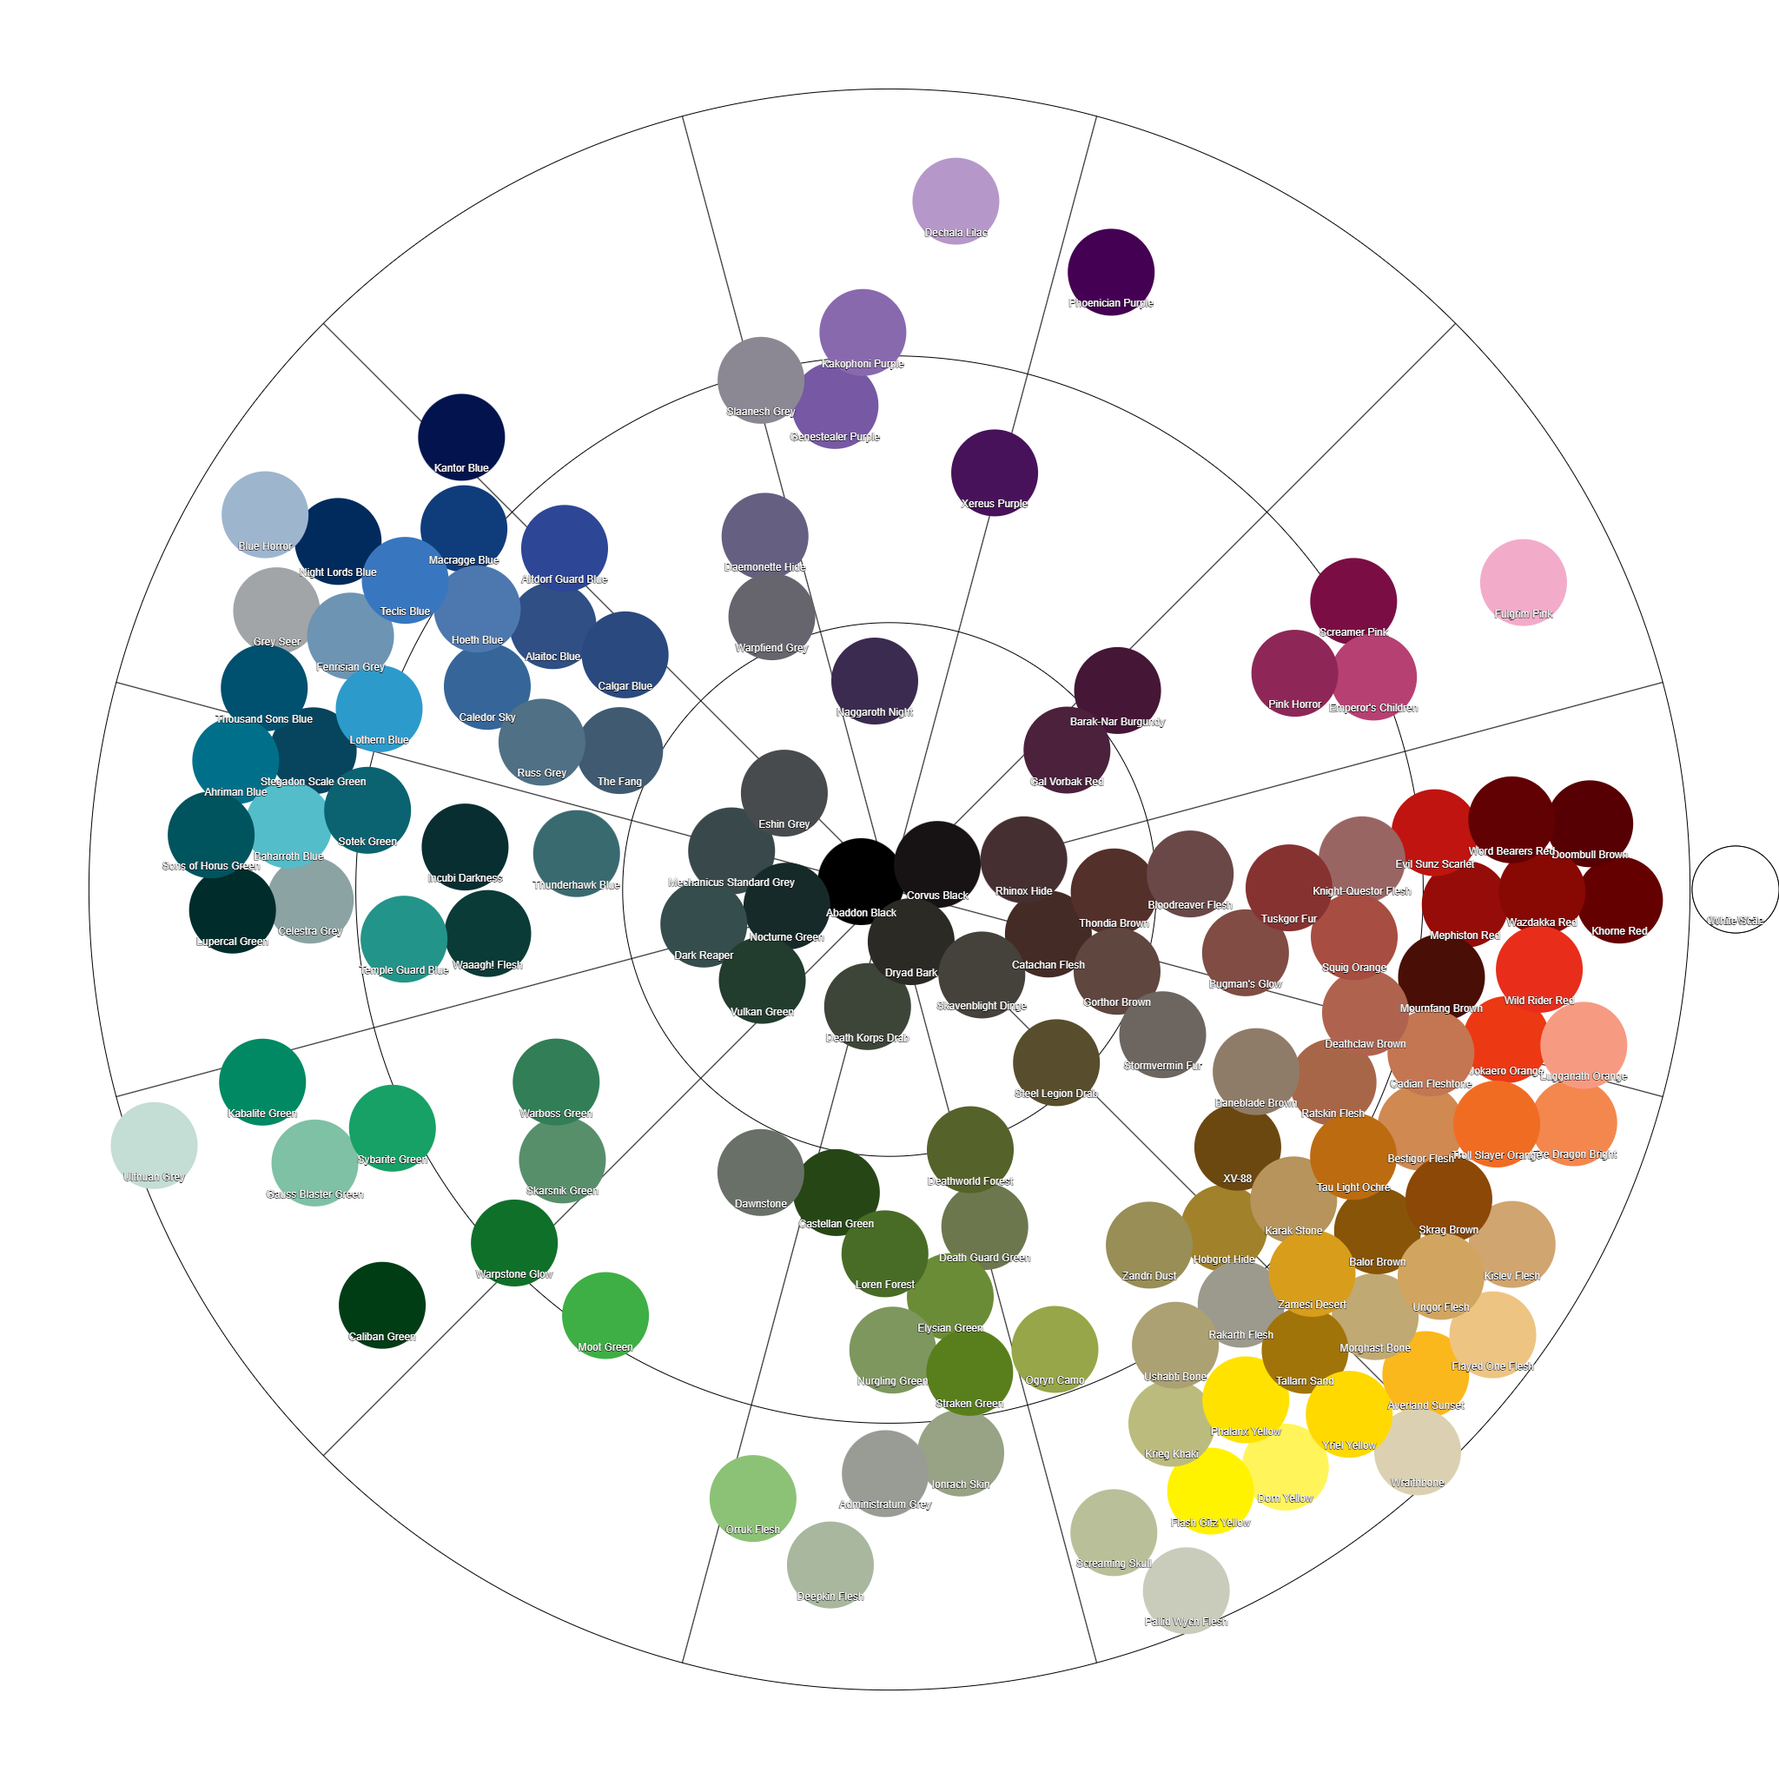
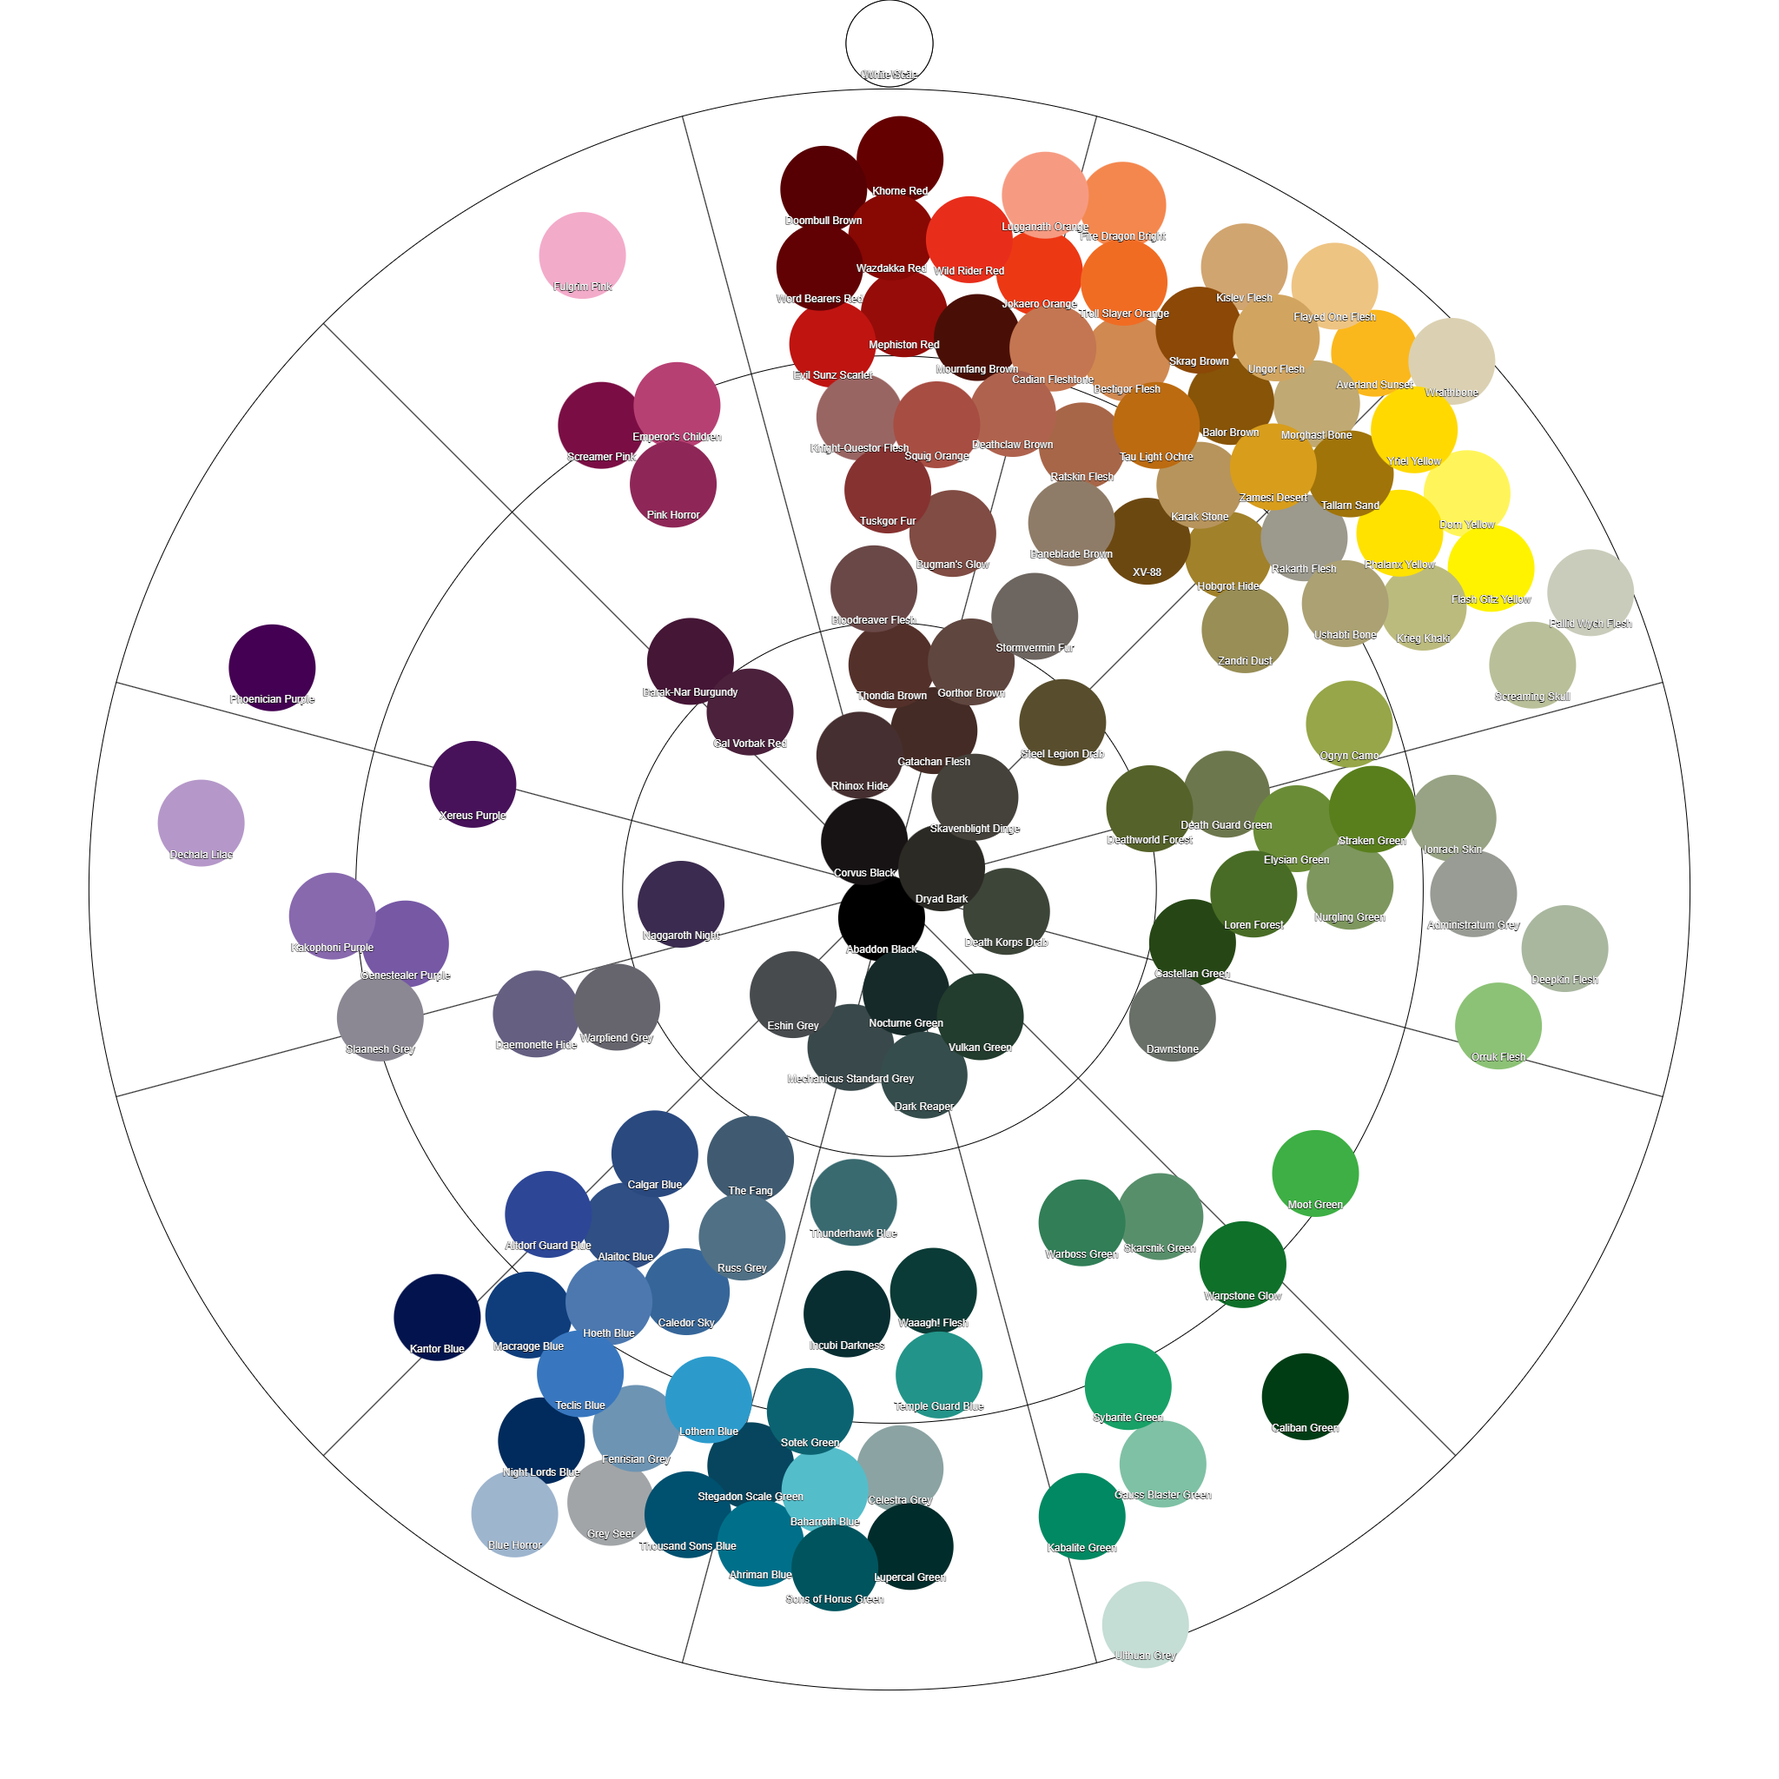
updated wheels

diff --git a/output/graph.html b/output/graph.html
@@ -7,8 +7,8 @@
   var ctx = canvas.getContext("2d");
 
   // BACKGROUND
-  //ctx.fillStyle = '#efefef';
-  //ctx.fillRect(0, 0, canvas.width, canvas.height);
+  ctx.fillStyle = '#fff'; //'#efefef';
+  ctx.fillRect(0, 0, canvas.width, canvas.height);
 
 
   // Function to draw a circle and a label at a specific (x, y) position
@@ -74,134 +74,134 @@
   // Example circles at different coordinates and colors
 
 let circles = [
-    ["#141314", 1106.38, 940.25, "Abaddon Black"],
-    ["#888c8f", 512.93, 794.26, "Administratum Grey"],
-    ["#00647c", 198.68, 907.70, "Ahriman Blue"],
-    ["#17466f", 580.49, 735.29, "Alaitoc Blue"],
-    ["#233d7d", 639.67, 667.77, "Altdorf Guard Blue"],
-    ["#c58336", 1557.42, 1466.02, "Averland Sunset"],
-    ["#33b4cf", 410.17, 911.97, "Baharroth Blue"],
-    ["#966326", 1448.93, 1384.49, "Balor Brown"],
-    ["#736153", 1332.29, 1214.88, "Baneblade Brown"],
-    ["#361f29", 1180.18, 891.17, "Barak-Nar Burgundy"],
-    ["#d4793f", 1676.96, 1290.37, "Bestigor Flesh"],
-    ["#4f2f2b", 1264.50, 980.42, "Bloodreaver Flesh"],
-    ["#90b4d2", 311.08, 657.91, "Blue Horror"],
-    ["#855751", 1431.26, 1067.74, "Bugman's Glow"],
-    ["#a86c5a", 1621.41, 1118.92, "Cadian Fleshtone"],
-    ["#0a4c94", 439.80, 632.82, "Caledor Sky"],
-    ["#4e6fc0", 545.08, 583.13, "Calgar Blue"],
-    ["#182e28", 859.26, 1093.63, "Caliban Green"],
-    ["#313324", 1042.70, 1176.57, "Castellan Green"],
-    ["#382621", 1175.61, 1069.33, "Catachan Flesh"],
-    ["#92a0a2", 352.41, 982.13, "Celestra Grey"],
-    ["#b6bbc0", 273.55, 576.21, "Corax White"],
-    ["#191c20", 1012.90, 998.26, "Corvus Black"],
-    ["#4b435c", 944.04, 720.03, "Daemonette Hide"],
-    ["#2a3740", 898.01, 1008.02, "Dark Reaper"],
-    ["#595f68", 745.07, 799.57, "Dawnstone"],
-    ["#646447", 1181.71, 1283.44, "Death Guard Green"],
-    ["#292924", 1031.28, 1086.80, "Death Korps Drab"],
-    ["#9f5435", 1547.70, 1155.45, "Deathclaw Brown"],
-    ["#4d492e", 1120.14, 1219.58, "Deathworld Forest"],
-    ["#ac97d8", 875.19, 230.00, "Dechala Lilac"],
-    ["#b6baab", 1221.61, 1816.57, "Deepkin Flesh"],
-    ["#461b15", 1383.30, 997.21, "Doombull Brown"],
-    ["#f1d985", 1588.68, 1633.75, "Dorn Yellow"],
-    ["#332827", 1097.51, 1028.53, "Dryad Bark"],
-    ["#6a6932", 1228.68, 1358.90, "Elysian Green"],
-    ["#e2639b", 1694.62, 690.27, "Emperor's Children"],
-    ["#2e3034", 945.05, 933.82, "Eshin Grey"],
-    ["#b52a2d", 1673.67, 987.50, "Evil Sunz Scarlet"],
-    ["#5d7b94", 582.50, 850.39, "Fenrisian Grey"],
-    ["#f36c2b", 1749.02, 1235.02, "Fire Dragon Bright"],
-    ["#f4b809", 1495.46, 1528.89, "Flash Gitz Yellow"],
-    ["#cfb697", 1735.72, 1468.94, "Flayed One Flesh"],
-    ["#f2ade2", 1590.28, 435.82, "Fulgrim Pink"],
-    ["#441c22", 1330.81, 927.03, "Gal Vorbak Red"],
-    ["#7fd4bb", 294.08, 1256.20, "Gauss Blaster Green"],
-    ["#744f94", 1043.02, 522.99, "Genestealer Purple"],
-    ["#593d36", 1259.39, 1065.35, "Gorthor Brown"],
-    ["#9ca0a1", 341.69, 846.08, "Grey Seer"],
-    ["#977848", 1360.52, 1377.18, "Hobgrot Hide"],
-    ["#0d62a0", 463.74, 719.39, "Hoeth Blue"],
-    ["#13252b", 810.81, 1019.16, "Incubi Darkness"],
-    ["#9f9d82", 1339.01, 1532.67, "Ionrach Skin"],
-    ["#ba613f", 1674.25, 1189.38, "Jokaero Orange"],
-    ["#034c44", 333.16, 1103.63, "Kabalite Green"],
-    ["#966a9f", 1220.34, 478.99, "Kakophoni Purple"],
-    ["#142134", 802.62, 862.33, "Kantor Blue"],
-    ["#937e69", 1410.38, 1303.85, "Karak Stone"],
-    ["#602025", 1430.07, 920.76, "Khorne Red"],
-    ["#c6906d", 1772.26, 1320.22, "Kislev Flesh"],
-    ["#6f4942", 1345.82, 1079.11, "Knight-Questor Flesh"],
-    ["#ada879", 1418.58, 1574.42, "Krieg Khaki"],
-    ["#414b33", 1017.20, 1261.31, "Loren Forest"],
-    ["#3394c3", 426.58, 817.67, "Lothern Blue"],
-    ["#f69069", 1835.40, 1212.60, "Lugganath Orange"],
-    ["#132f32", 756.42, 1089.55, "Lupercal Green"],
-    ["#1c3167", 713.46, 717.39, "Macragge Blue"],
-    ["#404951", 856.43, 932.10, "Mechanicus Standard Grey"],
-    ["#912724", 1597.23, 1033.13, "Mephiston Red"],
-    ["#5d9a32", 961.63, 1574.15, "Moot Green"],
-    ["#ba9f81", 1624.60, 1391.05, "Morghast Bone"],
-    ["#523322", 1285.97, 1145.61, "Mournfang Brown"],
-    ["#221c34", 973.55, 844.42, "Naggaroth Night"],
-    ["#111a28", 887.93, 848.49, "Night Lords Blue"],
-    ["#1c2121", 946.26, 1078.13, "Nocturne Green"],
-    ["#82885a", 1222.17, 1448.20, "Nurgling Green"],
-    ["#9d8f57", 1390.85, 1459.73, "Ogryn Camo"],
-    ["#7b874e", 1132.35, 1453.26, "Orruk Flesh"],
-    ["#d2c4bd", 1860.91, 1326.50, "Pallid Wych Flesh"],
-    ["#f6d026", 1498.59, 1618.50, "Phalanx Yellow"],
-    ["#302546", 1019.29, 769.22, "Phoenician Purple"],
-    ["#b74855", 1637.42, 905.53, "Pink Horror"],
-    ["#917f76", 1501.55, 1226.10, "Rakarth Flesh"],
-    ["#af5c3c", 1594.93, 1226.42, "Ratskin Flesh"],
-    ["#211413", 1178.33, 982.53, "Rhinox Hide"],
-    ["#4d657f", 656.47, 800.34, "Russ Grey"],
-    ["#5c1e33", 1374.25, 850.66, "Screamer Pink"],
-    ["#d1be9f", 1678.06, 1558.73, "Screaming Skull"],
-    ["#749357", 1028.71, 1514.15, "Skarsnik Green"],
-    ["#373739", 1029.15, 909.99, "Skavenblight Dinge"],
-    ["#884126", 1462.57, 1145.91, "Skrag Brown"],
-    ["#887e99", 942.73, 429.00, "Slaanesh Grey"],
-    ["#325256", 707.43, 1009.17, "Sons of Horus Green"],
-    ["#00556b", 252.46, 835.80, "Sotek Green"],
-    ["#b2544a", 1694.45, 1074.65, "Squig Orange"],
-    ["#675241", 1246.78, 1225.57, "Steel Legion Drab"],
-    ["#192d38", 767.28, 942.87, "Stegadon Scale Green"],
-    ["#555450", 1190.54, 1157.90, "Stormvermin Fur"],
-    ["#656a48", 1111.46, 1337.66, "Straken Green"],
-    ["#258d6e", 514.54, 1188.40, "Sybarite Green"],
-    ["#836b4c", 1319.46, 1300.03, "Tallarn Sand"],
-    ["#c57d49", 1588.78, 1312.09, "Tau Light Ochre"],
-    ["#0c72b6", 374.10, 721.98, "Teclis Blue"],
-    ["#0295b6", 288.67, 918.61, "Temple Guard Blue"],
-    ["#303d57", 840.56, 772.63, "The Fang"],
-    ["#31241f", 1109.75, 1123.31, "Thondia Brown"],
-    ["#014c72", 290.40, 754.41, "Thousand Sons Blue"],
-    ["#2f4b59", 697.69, 886.95, "Thunderhawk Blue"],
-    ["#e6491b", 1751.60, 1144.73, "Troll Slayer Orange"],
-    ["#8d4338", 1518.68, 1073.94, "Tuskgor Fur"],
-    ["#c1c9cb", 146.15, 832.87, "Ulthuan Grey"],
-    ["#dd9552", 1711.63, 1383.62, "Ungor Flesh"],
-    ["#bfa781", 1646.36, 1475.73, "Ushabti Bone"],
-    ["#232f26", 956.37, 1165.62, "Vulkan Green"],
-    ["#31473a", 869.45, 1182.64, "Waaagh! Flesh"],
-    ["#476b43", 893.43, 1317.27, "Warboss Green"],
-    ["#645d73", 951.59, 630.39, "Warpfiend Grey"],
-    ["#075e2e", 477.73, 1380.16, "Warpstone Glow"],
-    ["#a1343b", 1559.48, 951.93, "Wazdakka Red"],
-    ["#ebeef0", 147.28, 633.66, "White Scar"],
-    ["#e03f39", 1772.22, 1033.87, "Wild Rider Red"],
-    ["#672220", 1480.51, 993.90, "Word Bearers Red"],
-    ["#c9beae", 1767.40, 1552.57, "Wraithbone"],
-    ["#3a2746", 1083.34, 833.10, "Xereus Purple"],
-    ["#745438", 1415.15, 1216.96, "XV-88"],
-    ["#f3a014", 1589.64, 1545.45, "Yriel Yellow"],
-    ["#b08047", 1537.34, 1384.64, "Zamesi Desert"],
-    ["#9a7d60", 1498.28, 1309.85, "Zandri Dust"],
+    ["#141314", 940.25, 941.62, "Abaddon Black"],
+    ["#888c8f", 794.26, 1535.07, "Administratum Grey"],
+    ["#00647c", 907.70, 1849.32, "Ahriman Blue"],
+    ["#17466f", 735.29, 1467.51, "Alaitoc Blue"],
+    ["#233d7d", 667.77, 1408.33, "Altdorf Guard Blue"],
+    ["#c58336", 1466.02, 490.58, "Averland Sunset"],
+    ["#33b4cf", 911.97, 1637.83, "Baharroth Blue"],
+    ["#966326", 1384.49, 599.07, "Balor Brown"],
+    ["#736153", 1214.88, 715.71, "Baneblade Brown"],
+    ["#361f29", 891.17, 867.82, "Barak-Nar Burgundy"],
+    ["#d4793f", 1290.37, 371.04, "Bestigor Flesh"],
+    ["#4f2f2b", 980.42, 783.50, "Bloodreaver Flesh"],
+    ["#90b4d2", 657.91, 1736.92, "Blue Horror"],
+    ["#855751", 1067.74, 616.74, "Bugman's Glow"],
+    ["#a86c5a", 1118.92, 426.59, "Cadian Fleshtone"],
+    ["#0a4c94", 632.82, 1608.20, "Caledor Sky"],
+    ["#4e6fc0", 583.13, 1502.92, "Calgar Blue"],
+    ["#182e28", 1093.63, 1188.74, "Caliban Green"],
+    ["#313324", 1176.57, 1005.30, "Castellan Green"],
+    ["#382621", 1069.33, 872.39, "Catachan Flesh"],
+    ["#92a0a2", 982.13, 1695.59, "Celestra Grey"],
+    ["#b6bbc0", 576.21, 1774.45, "Corax White"],
+    ["#191c20", 998.26, 1035.10, "Corvus Black"],
+    ["#4b435c", 720.03, 1103.96, "Daemonette Hide"],
+    ["#2a3740", 1008.02, 1149.99, "Dark Reaper"],
+    ["#595f68", 799.57, 1302.93, "Dawnstone"],
+    ["#646447", 1283.44, 866.29, "Death Guard Green"],
+    ["#292924", 1086.80, 1016.72, "Death Korps Drab"],
+    ["#9f5435", 1155.45, 500.30, "Deathclaw Brown"],
+    ["#4d492e", 1219.58, 927.86, "Deathworld Forest"],
+    ["#ac97d8", 230.00, 1172.81, "Dechala Lilac"],
+    ["#b6baab", 1816.57, 826.39, "Deepkin Flesh"],
+    ["#461b15", 997.21, 664.70, "Doombull Brown"],
+    ["#f1d985", 1633.75, 459.32, "Dorn Yellow"],
+    ["#332827", 1028.53, 950.49, "Dryad Bark"],
+    ["#6a6932", 1358.90, 819.32, "Elysian Green"],
+    ["#e2639b", 690.27, 353.38, "Emperor's Children"],
+    ["#2e3034", 933.82, 1102.95, "Eshin Grey"],
+    ["#b52a2d", 987.50, 374.33, "Evil Sunz Scarlet"],
+    ["#5d7b94", 850.39, 1465.50, "Fenrisian Grey"],
+    ["#f36c2b", 1235.02, 298.98, "Fire Dragon Bright"],
+    ["#f4b809", 1528.89, 552.54, "Flash Gitz Yellow"],
+    ["#cfb697", 1468.94, 312.28, "Flayed One Flesh"],
+    ["#f2ade2", 435.82, 457.72, "Fulgrim Pink"],
+    ["#441c22", 927.03, 717.19, "Gal Vorbak Red"],
+    ["#7fd4bb", 1256.20, 1753.92, "Gauss Blaster Green"],
+    ["#744f94", 522.99, 1004.98, "Genestealer Purple"],
+    ["#593d36", 1065.35, 788.61, "Gorthor Brown"],
+    ["#9ca0a1", 846.08, 1706.31, "Grey Seer"],
+    ["#977848", 1377.18, 687.48, "Hobgrot Hide"],
+    ["#0d62a0", 719.39, 1584.26, "Hoeth Blue"],
+    ["#13252b", 1019.16, 1237.19, "Incubi Darkness"],
+    ["#9f9d82", 1532.67, 708.99, "Ionrach Skin"],
+    ["#ba613f", 1189.38, 373.75, "Jokaero Orange"],
+    ["#034c44", 1103.63, 1714.84, "Kabalite Green"],
+    ["#966a9f", 478.99, 827.66, "Kakophoni Purple"],
+    ["#142134", 862.33, 1245.38, "Kantor Blue"],
+    ["#937e69", 1303.85, 637.62, "Karak Stone"],
+    ["#602025", 920.76, 617.93, "Khorne Red"],
+    ["#c6906d", 1320.22, 275.74, "Kislev Flesh"],
+    ["#6f4942", 1079.11, 702.18, "Knight-Questor Flesh"],
+    ["#ada879", 1574.42, 629.42, "Krieg Khaki"],
+    ["#414b33", 1261.31, 1030.80, "Loren Forest"],
+    ["#3394c3", 817.67, 1621.42, "Lothern Blue"],
+    ["#f69069", 1212.60, 212.60, "Lugganath Orange"],
+    ["#132f32", 1089.55, 1291.58, "Lupercal Green"],
+    ["#1c3167", 717.39, 1334.54, "Macragge Blue"],
+    ["#404951", 932.10, 1191.57, "Mechanicus Standard Grey"],
+    ["#912724", 1033.13, 450.77, "Mephiston Red"],
+    ["#5d9a32", 1574.15, 1086.37, "Moot Green"],
+    ["#ba9f81", 1391.05, 423.40, "Morghast Bone"],
+    ["#523322", 1145.61, 762.03, "Mournfang Brown"],
+    ["#221c34", 844.42, 1074.45, "Naggaroth Night"],
+    ["#111a28", 848.49, 1160.07, "Night Lords Blue"],
+    ["#1c2121", 1078.13, 1101.74, "Nocturne Green"],
+    ["#82885a", 1448.20, 825.83, "Nurgling Green"],
+    ["#9d8f57", 1459.73, 657.15, "Ogryn Camo"],
+    ["#7b874e", 1453.26, 915.65, "Orruk Flesh"],
+    ["#d2c4bd", 1326.50, 187.09, "Pallid Wych Flesh"],
+    ["#f6d026", 1618.50, 549.41, "Phalanx Yellow"],
+    ["#302546", 769.22, 1028.71, "Phoenician Purple"],
+    ["#b74855", 905.53, 410.58, "Pink Horror"],
+    ["#917f76", 1226.10, 546.45, "Rakarth Flesh"],
+    ["#af5c3c", 1226.42, 453.07, "Ratskin Flesh"],
+    ["#211413", 982.53, 869.67, "Rhinox Hide"],
+    ["#4d657f", 800.34, 1391.53, "Russ Grey"],
+    ["#5c1e33", 850.66, 673.75, "Screamer Pink"],
+    ["#d1be9f", 1558.73, 369.94, "Screaming Skull"],
+    ["#749357", 1514.15, 1019.29, "Skarsnik Green"],
+    ["#373739", 909.99, 1018.85, "Skavenblight Dinge"],
+    ["#884126", 1145.91, 585.43, "Skrag Brown"],
+    ["#887e99", 429.00, 1105.27, "Slaanesh Grey"],
+    ["#325256", 1009.17, 1340.57, "Sons of Horus Green"],
+    ["#00556b", 835.80, 1795.54, "Sotek Green"],
+    ["#b2544a", 1074.65, 353.55, "Squig Orange"],
+    ["#675241", 1225.57, 801.22, "Steel Legion Drab"],
+    ["#192d38", 942.87, 1280.72, "Stegadon Scale Green"],
+    ["#555450", 1157.90, 857.46, "Stormvermin Fur"],
+    ["#656a48", 1337.66, 936.54, "Straken Green"],
+    ["#258d6e", 1188.40, 1533.46, "Sybarite Green"],
+    ["#836b4c", 1300.03, 728.54, "Tallarn Sand"],
+    ["#c57d49", 1312.09, 459.22, "Tau Light Ochre"],
+    ["#0c72b6", 721.98, 1673.90, "Teclis Blue"],
+    ["#0295b6", 918.61, 1759.33, "Temple Guard Blue"],
+    ["#303d57", 772.63, 1207.44, "The Fang"],
+    ["#31241f", 1123.31, 938.25, "Thondia Brown"],
+    ["#014c72", 754.41, 1757.60, "Thousand Sons Blue"],
+    ["#2f4b59", 886.95, 1350.31, "Thunderhawk Blue"],
+    ["#e6491b", 1144.73, 296.40, "Troll Slayer Orange"],
+    ["#8d4338", 1073.94, 529.32, "Tuskgor Fur"],
+    ["#c1c9cb", 832.87, 1901.85, "Ulthuan Grey"],
+    ["#dd9552", 1383.62, 336.37, "Ungor Flesh"],
+    ["#bfa781", 1475.73, 401.64, "Ushabti Bone"],
+    ["#232f26", 1165.62, 1091.63, "Vulkan Green"],
+    ["#31473a", 1182.64, 1178.55, "Waaagh! Flesh"],
+    ["#476b43", 1317.27, 1154.57, "Warboss Green"],
+    ["#645d73", 630.39, 1096.41, "Warpfiend Grey"],
+    ["#075e2e", 1380.16, 1570.27, "Warpstone Glow"],
+    ["#a1343b", 951.93, 488.52, "Wazdakka Red"],
+    ["#ebeef0", 633.66, 1900.72, "White Scar"],
+    ["#e03f39", 1033.87, 275.78, "Wild Rider Red"],
+    ["#672220", 993.90, 567.49, "Word Bearers Red"],
+    ["#c9beae", 1552.57, 280.60, "Wraithbone"],
+    ["#3a2746", 833.10, 964.66, "Xereus Purple"],
+    ["#745438", 1216.96, 632.85, "XV-88"],
+    ["#f3a014", 1545.45, 458.36, "Yriel Yellow"],
+    ["#b08047", 1384.64, 510.66, "Zamesi Desert"],
+    ["#9a7d60", 1309.85, 549.72, "Zandri Dust"],
 ];
 
 circles.forEach(circle => {

diff --git a/scripts/graphmaker.py b/scripts/graphmaker.py
@@ -8,7 +8,7 @@ canvassize = 2048
 margin = 50
 
 # List of named colors and their hex values
-with open('../colors_taleofp.json', 'r') as file:#colors_gwofficial colors_taleofp
+with open('../colors_taleofp.json', 'r') as file: #colors_gwofficial colors_taleofp
     color_dict = json.load(file)
 
 # Function to convert hex to RGB
@@ -91,7 +91,7 @@ mode = 'WHEEL' # PCA
 
 def hsl_to_wheel(hsl):
     h, s, l = hsl
-    a = math.radians(h*360)
+    a = math.radians(h*360-90)
     d = lerp(l, 0.65, s)
     d = sigmoid(d, 2)
     x = canvassize/2 + math.cos(a) * (canvassize/2-margin)*d

diff --git a/tables/citadel_official_colors_table.md b/tables/citadel_official_colors_table.md
@@ -1,6 +1,3 @@
-<style>
-.colorbox { width: 100px; height: 30px; border: 1px solid #000; }
-</style>
 
 # Citadel Official Colours Table
 
@@ -12,6 +9,10 @@ The table is complete as of *November 2024* and uses the official names and hex 
 - For colors whose visualization is a gradient, the hex code is provided as `hex1_hex2`, with `hex1` always the darker color and `hex2` the lighter color.  
 - Metal colors use a radial gradient, shades use a vertical gradient, contrast colors use a horizontal gradient and technical colors use a discrete gradient.  
 - Colors are sorted by type and then by name.
+
+<style>
+.colorbox { width: 100px; height: 30px; border: 1px solid #000; }
+</style>
 
 | Name                     | Type      | Finish  | Code              | Color |
 | ----                     | ----      | ------  | -------           | ----- |
